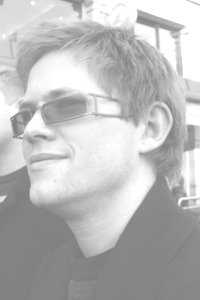
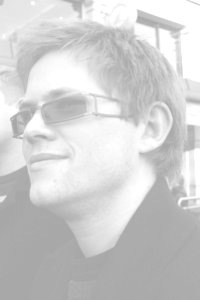
red is the new blue. added arrow to img.me

diff --git a/css/stylesheet.css b/css/stylesheet.css
@@ -17,16 +17,16 @@ body {
 }
 
 a {
-    color: #467;
+    color: #500;
     text-decoration: underline;
 }
 
 a:hover {
-    text-decoration: none;
+    color: #d00;
 }
 
 acronym {
-    border-bottom: 1px dotted #467;
+    border-bottom: 1px dotted #700;
     cursor: help;
 }
 
@@ -53,7 +53,7 @@ h1 {
     margin: 1em 0;
     padding: 0;
     clear: left;
-    border-bottom: 2px solid #467;
+    border-bottom: 2px solid #600;
 }
 
 h2 {
@@ -62,7 +62,7 @@ h2 {
     margin: 1em 0 0.5em 0;
     padding: 0.2em 0;
     clear: left;
-    border-bottom: 1px solid #467;
+    border-bottom: 1px solid #600;
 }
 
 h3 {
@@ -116,7 +116,7 @@ dd {
 }
 
 #menu {
-    background: #467;
+    background: #900;
     margin: 0 auto;
     width: 40em;
     height: 1.8em;
@@ -155,11 +155,38 @@ dd {
     left: 50%;
 }
 
-#welcome img {
+#welcome .me-image {
+    color: #555;
+    text-decoration: none;
+    border: 3px solid #000;
+    height: 300px;
+    width: 200px;
+    overflow: visible;
     position: absolute;
-    top: -300px;
     left: 0;
-    border: 1px solid #000;
+    top: -300px;
+}
+
+#welcome .me-image:hover {
+    color: #900;
+    border-color: #900;
+}
+
+#welcome .me-image img {
+    vertical-align: bottom;
+}
+
+#welcome .me-image span {
+    font-size: 120px;
+    line-height: 120px;
+    font-weight: bold;
+    text-decoration: none;
+    position: absolute;
+    top: 170px;
+    left: 150px;
+}
+
+#welcome .me-arrow:hover {
 }
 
 #content {

diff --git a/index.html b/index.html
@@ -4,12 +4,11 @@ title: jhthorsen's github page
 ---
 
 <div id="welcome">
-<a href="cv.html"><img src="./images/me.jpg" alt="image of jhthorsen"></a>
+<a href="cv.html" class="me-image"><img src="./images/me.jpg" alt="image of jhthorsen"><span class="me-arrows">&larr;</span></a>
 <p>
-    I use <a href="http://perl.com">Perl</a>,
-    javascript/<a href="http://jquery.com">jQuery</a>,
+    My toolbox is filled with <a href="http://perl.com">Perl</a>,
+    javascript / <a href="http://jquery.com">jQuery</a>,
     <a href="http://www.w3.org/TR/REC-html40/">HTML</a> and
-    <a href="http://www.w3.org/TR/CSS/">CSS</a>
-    as fundamentals in my <a href="http://github.com/jhthorsen">projects</a>.
+    <a href="http://www.w3.org/TR/CSS/">CSS</a>.
 </p>
 </div>
